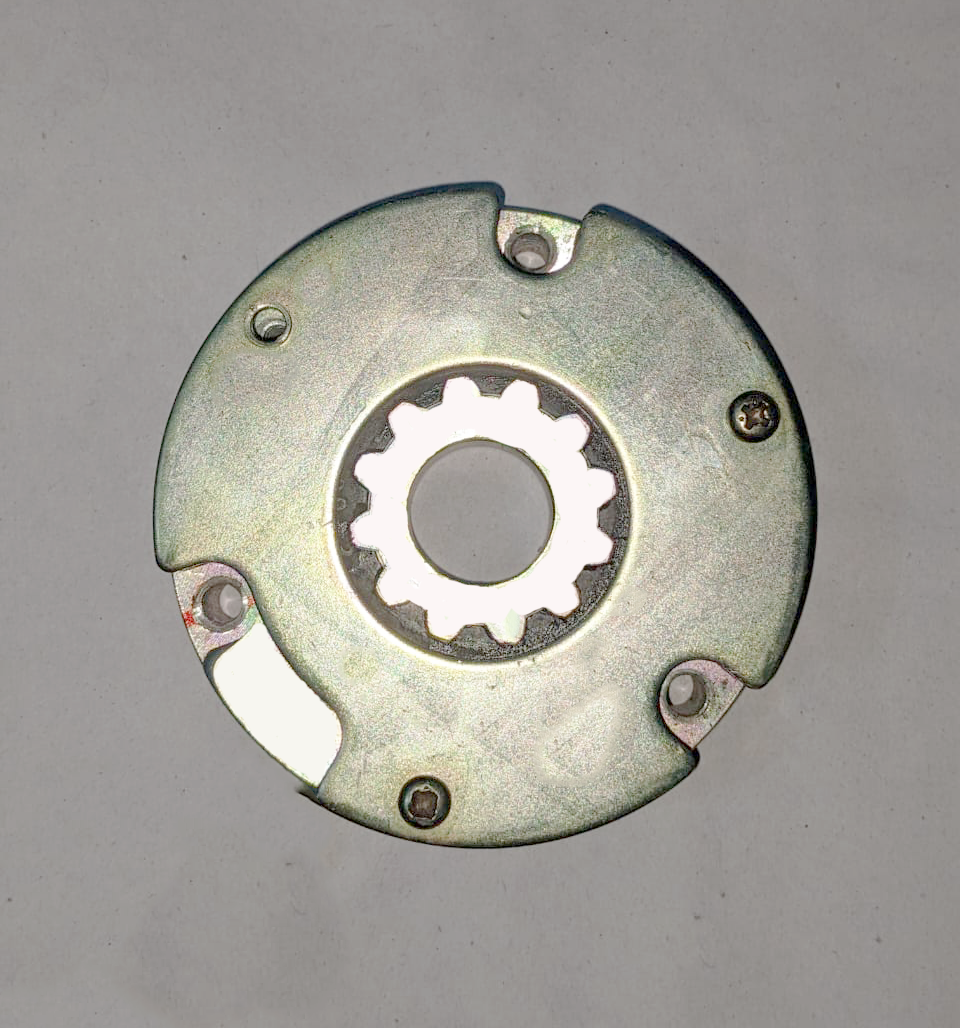
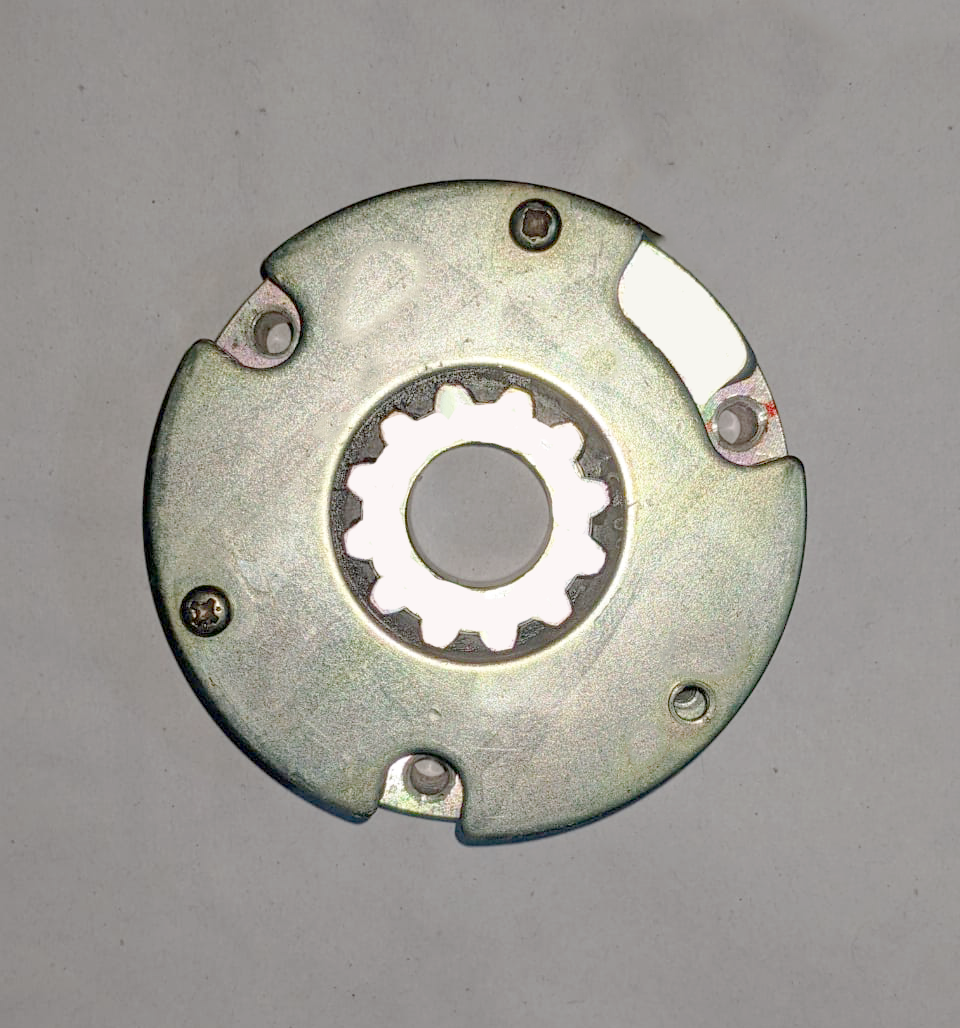
Code Final

Changed region(s): [[0.125, 0.1556, 0.875, 0.8405], [0.5312, 0.5292, 0.5625, 0.5603], [0.4375, 0.4358, 0.4688, 0.4669]]

diff --git a/pages/index.js b/pages/index.js
@@ -31,6 +31,8 @@ import ShieldIcon from "@mui/icons-material/Shield";
 import SettingsIcon from "@mui/icons-material/Settings";
 import ElectricalServicesIcon from "@mui/icons-material/ElectricalServices";
 import DashboardCustomizeIcon from "@mui/icons-material/DashboardCustomize";
+import ReportProblemIcon from '@mui/icons-material/ReportProblem';
+import CenterFocusStrongIcon from '@mui/icons-material/CenterFocusStrong';
 
 const IntroSection = () => {
   return (
@@ -79,7 +81,13 @@ const IntroSection = () => {
           Get a Demo
           </button>
         </Link>
+        <Link href="https://beltline.glitch.me/" target="_blank"  aria-label="ViewInAR">
+          <button id="ViewInAR" aria-label="ViewInAR" className="block rounded-full mx-auto text-base sm:text-lg hover:border-black  hover:bg-white hover:text-black  px-2 py-1 mt-2">
+          <CenterFocusStrongIcon /> View in AR
+          </button>
+          </Link>
       </div>
+      
     </Box>
   );
 };
@@ -337,7 +345,7 @@ const PerformanceAnalytics = () => {
                           }% 100%, 0 100%)`,
                       }}
                       className="twentytwenty-before object-center w-full h-full pafe-before-after-image-comparison-slider__item pafe-before-after-image-comparison-slider__item--before"
-                      src="/motorxray1.png"
+                      src="/motorxray2.png"
                       width={960}
                       height={1028}
                       alt="Magnet Detect"
@@ -345,7 +353,7 @@ const PerformanceAnalytics = () => {
                     <Image
                       decoding="async"
                       className="custom-clip2 h-full w-full pafe-before-after-image-comparison-slider__item pafe-before-after-image-comparison-slider__item--after twentytwenty-after"
-                      src="/motorxray2.png"
+                      src="/motorxray1.png"
                       width={960}
                       height={1028}
                       alt="Magnet Detect"
@@ -539,7 +547,7 @@ const BenefitSection = () => {
     },
 
     {
-      svg: <ErrorIcon fontSize="large" sx={{ fill: "#fff" }} />,
+      svg: <ReportProblemIcon fontSize="large" sx={{ fill: "#fff" }} />,
       title: "Reduce Human Error",
       desc: "Significantly reduce human errors in the inspection process, Improving product quality & consistency.",
       para: "Our product can detect defects that are not visible to the human eye, Ensuring a more thorough inspection process.",
